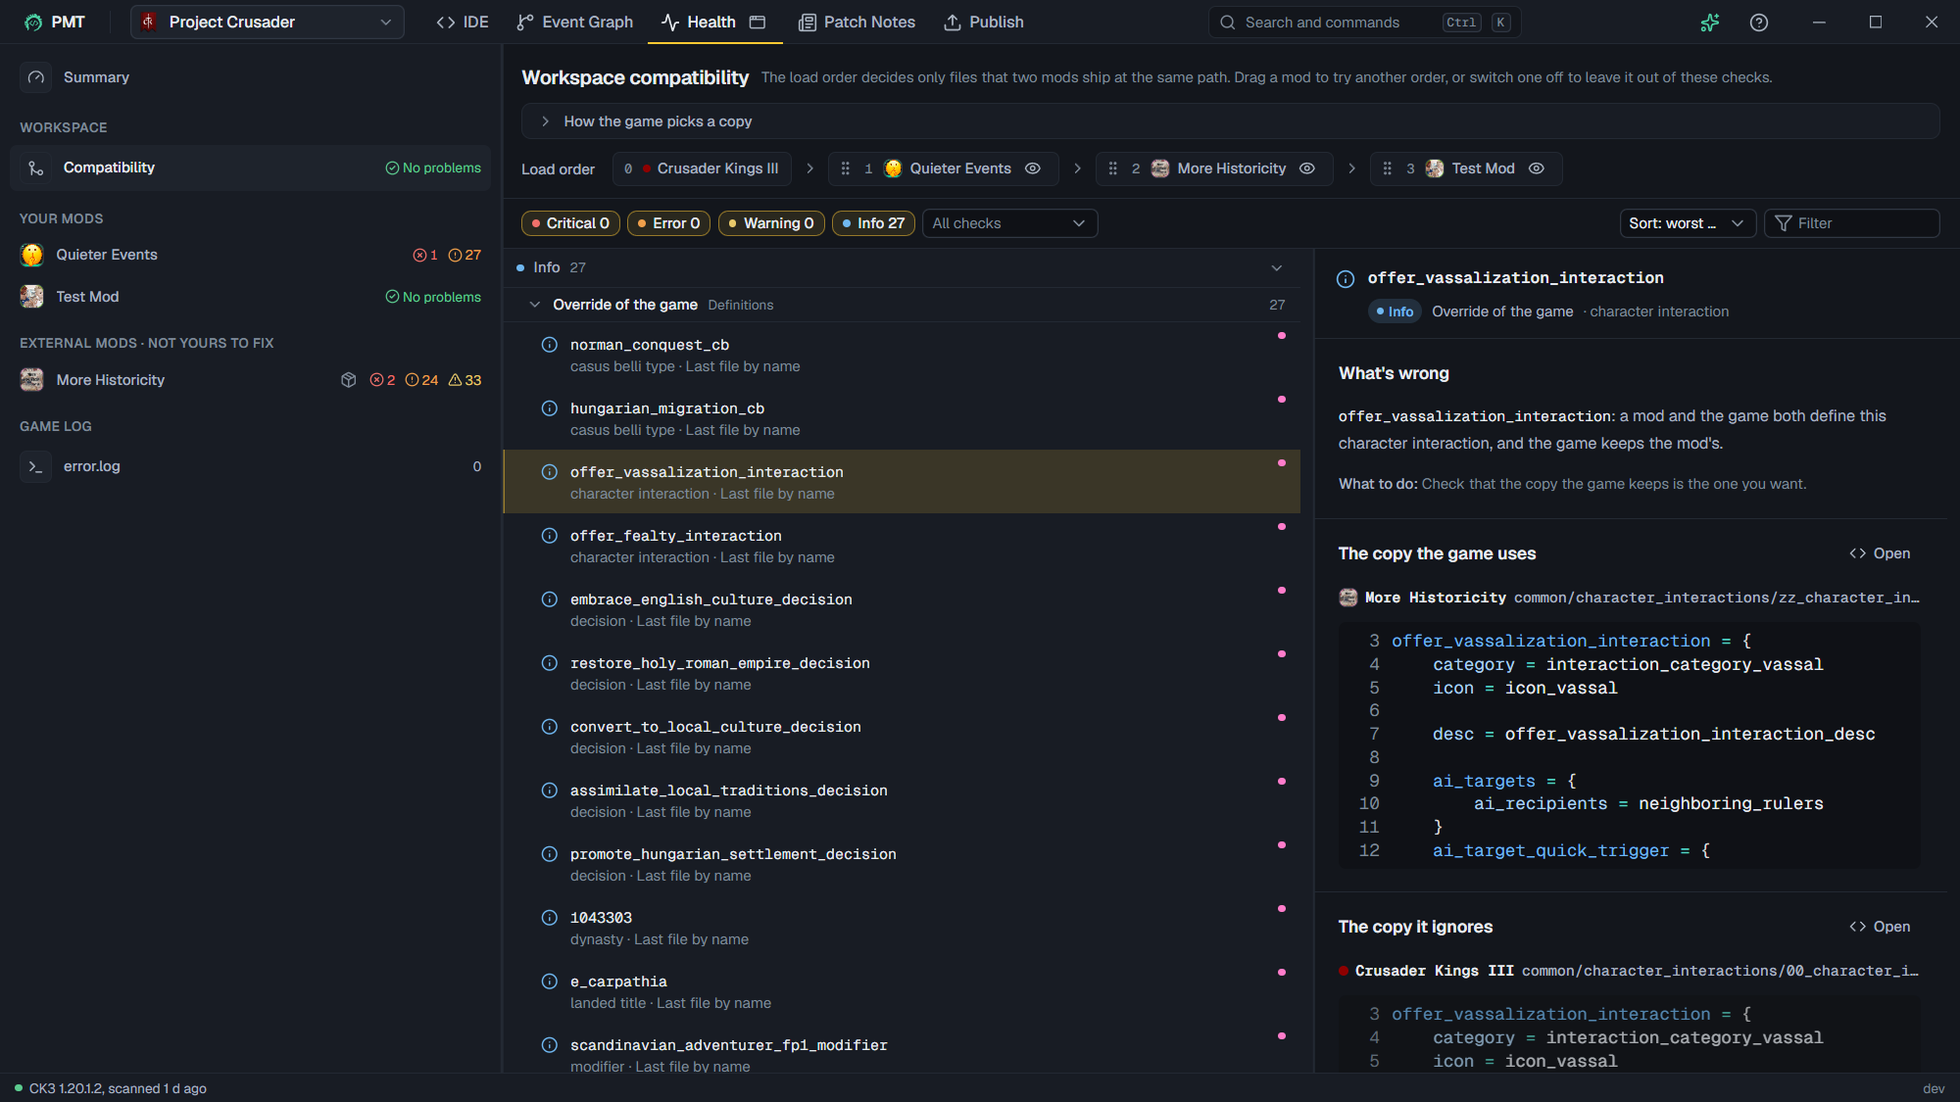
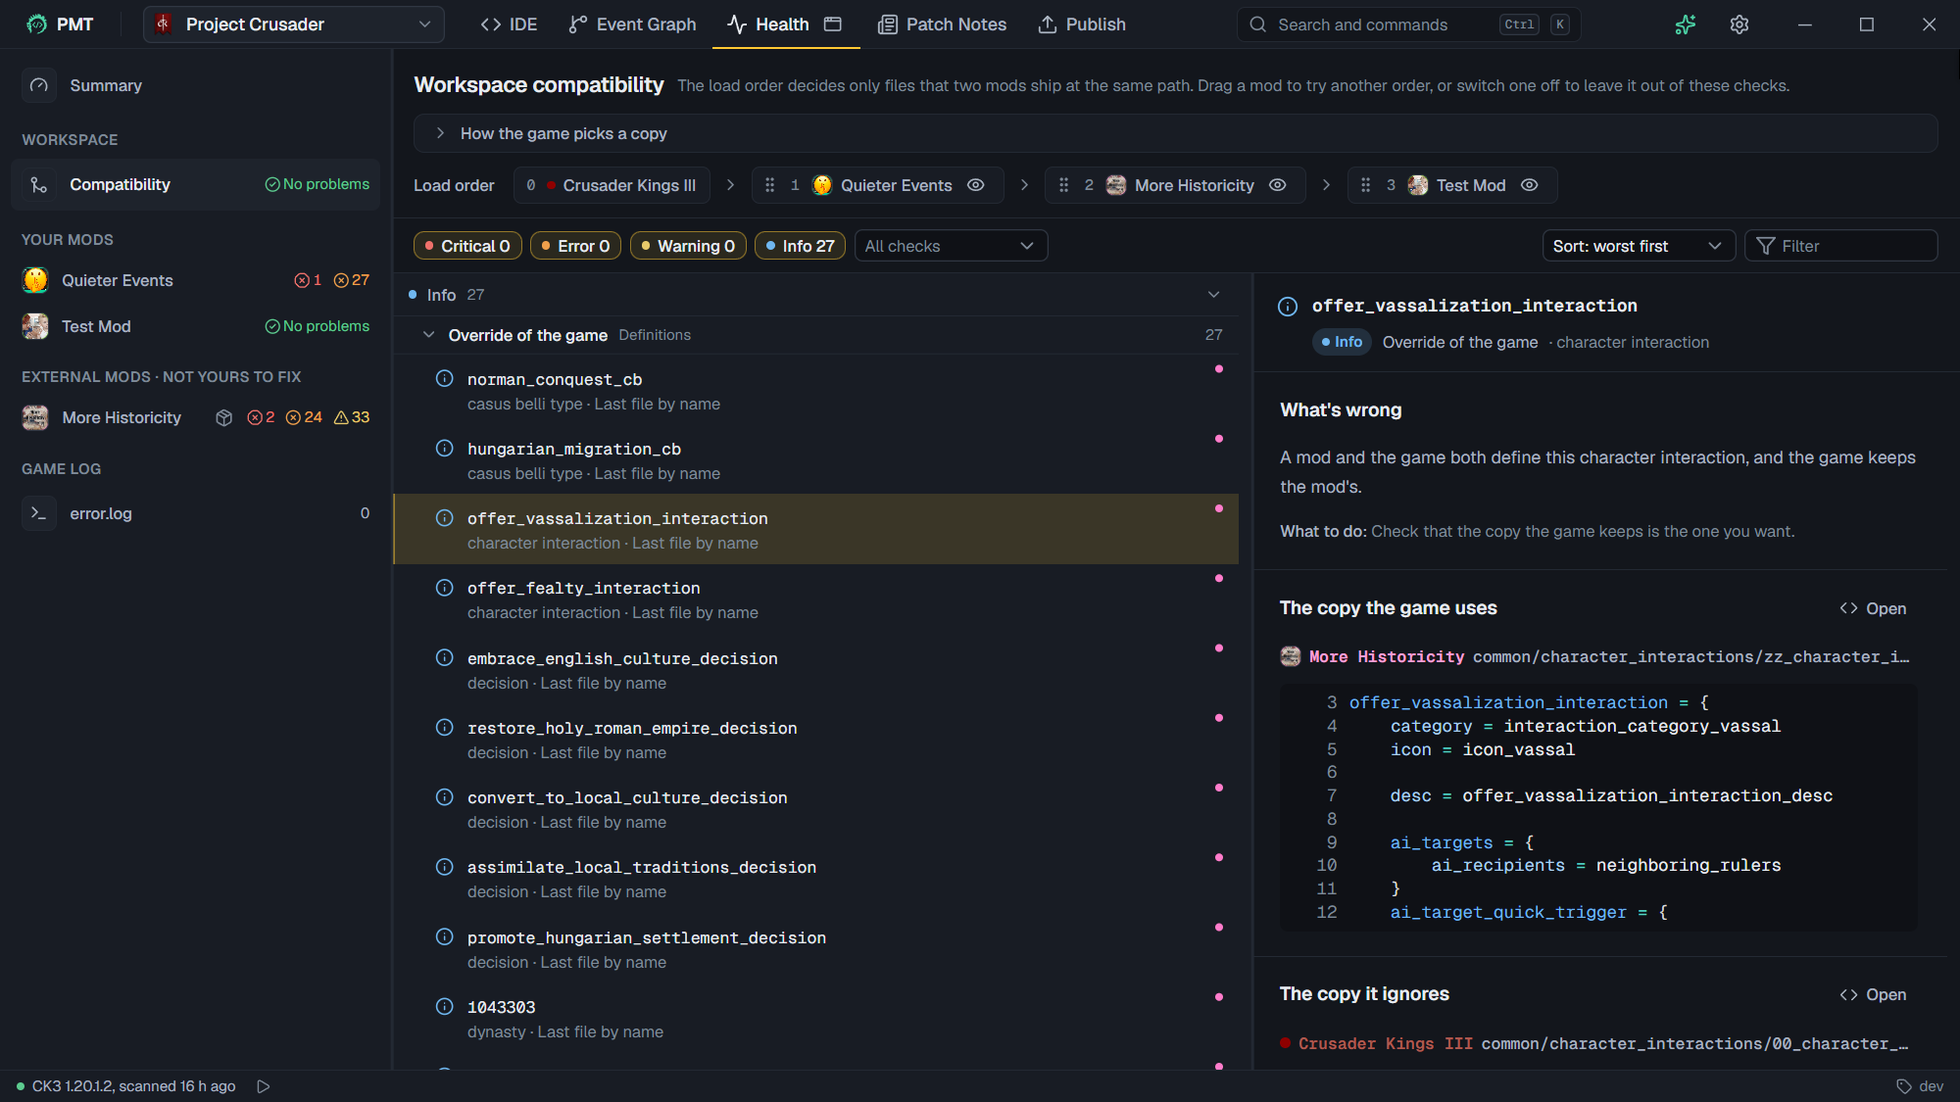
More Health page fixes and update for screenshot

diff --git a/frontend/src/ui/FactText.vue b/frontend/src/ui/FactText.vue
@@ -3,30 +3,63 @@
 import { computed } from "vue";
 
 import type { Part } from "@services/lsp/models";
+import { useWorkspaceStore, VANILLA } from "../stores/workspace";
 
 const { parts = [] } = defineProps<{ parts?: readonly Part[] | null }>();
 
-/** drawn holds each part with its style: plain for a fact shown before, and a path split into folder and file. */
+const workspace = useWorkspaceStore();
+/** The text color of the game's and each mod's name. */
+const modColors = computed(
+  () =>
+    new Map(
+      [VANILLA, ...workspace.listMods().map((mod) => mod.id)].map((origin) => [
+        workspace.originName(origin),
+        workspace.originTextColor(origin),
+      ]),
+    ),
+);
+
+/**
+ * drawn holds each part with its style: plain for a fact shown before, a mod in its color with the 's after it, a path
+ * split into folder and file, and code split after each underscore, where its line may break.
+ */
 const drawn = computed(() => {
   const keys = new Set<string>();
-  return (parts ?? []).map((part) => {
+  const styled = (parts ?? []).map((part) => {
     const key = `${part.style}:${part.text}`;
     const style = keys.has(key) ? "" : part.style;
     keys.add(key);
-    const fileStart = style === "path" ? part.text.lastIndexOf("/") + 1 : 0;
-    return { text: part.text, style, folder: part.text.slice(0, fileStart), file: part.text.slice(fileStart) };
+    return { text: part.text, style };
+  });
+  return styled.map(({ text, style }, index) => {
+    const owns = style === "mod" && !!styled[index + 1]?.text.startsWith("'s");
+    const owned = styled[index - 1]?.style === "mod" && text.startsWith("'s");
+    const fileStart = style === "path" ? text.lastIndexOf("/") + 1 : 0;
+    return {
+      text: (owned ? text.slice(2) : text) + (owns ? "'s" : ""),
+      style,
+      color: style === "mod" ? modColors.value.get(text) : undefined,
+      folder: text.slice(0, fileStart),
+      file: text.slice(fileStart),
+      pieces: text.split(/(?<=_)/),
+    };
   });
 });
 </script>
 
 <template>
   <template v-for="(part, index) in drawn" :key="index">
-    <b v-if="part.style === 'mod' || part.style === 'count'" class="font-semibold text-highlighted tabular-nums">{{
-      part.text
-    }}</b>
-    <code v-else-if="part.style === 'code'" class="font-mono text-[0.92em] wrap-anywhere text-highlighted">{{
-      part.text
-    }}</code>
+    <b
+      v-if="part.style === 'mod' || part.style === 'count'"
+      class="font-semibold text-highlighted tabular-nums"
+      :style="part.color ? { color: part.color } : undefined"
+      >{{ part.text }}</b
+    >
+    <code
+      v-else-if="part.style === 'code'"
+      class="rounded-sm bg-elevated px-1 py-px font-mono text-[0.88em] box-decoration-clone wrap-anywhere text-default"
+      ><template v-for="(piece, at) in part.pieces" :key="at">{{ piece }}<wbr /></template
+    ></code>
     <span v-else-if="part.style === 'path'" class="font-mono text-[0.92em] wrap-anywhere text-dimmed"
       >{{ part.folder }}<span class="font-medium text-highlighted">{{ part.file }}</span></span
     >

diff --git a/frontend/src/pages/health/HealthDetail.vue b/frontend/src/pages/health/HealthDetail.vue
@@ -4,7 +4,7 @@ import { computed, shallowRef } from "vue";
 import { useQuery } from "@pinia/colada";
 import { groupBy, isEqual, maxBy, sumBy } from "es-toolkit";
 import type { Finding } from "@services/health/models";
-import type { Site } from "@services/lsp/models";
+import type { Part, Site } from "@services/lsp/models";
 import { compareWithGame } from "../../app/commands";
 import { describeCount, matchQuery, plural } from "../../lib/format";
 import { codesQuery, comparedQuery, levelsQuery, readersQuery, snippetsQuery } from "../../queries";
@@ -74,6 +74,14 @@ const replacing = computed(() =>
 );
 /** Whether the finding suggests a load order other than the current one. */
 const reorders = computed(() => !!finding.order?.length && !isEqual(order, finding.order));
+/** The sentence that says which mod to move after which, the mods in their colors. */
+const reorderParts = computed((): Part[] => [
+  { text: "Put " },
+  { text: finding.facts?.beaten ?? "", style: "mod" },
+  { text: " after " },
+  { text: finding.facts?.winner ?? "", style: "mod" },
+  { text: "." },
+]);
 
 /** The text an entry still used must match to be listed, and whether the list shows all of them. */
 const usesFilter = shallowRef("");
@@ -127,7 +135,10 @@ function describeSite(site: Site): string {
               >{{ folder }}/<wbr /></template></span
           >{{ file.name }}
         </template>
-        <template v-else>{{ finding.name || finding.label || finding.code }}</template>
+        <template v-else-if="finding.name"
+          ><template v-for="(piece, at) in finding.name.split(/(?<=_)/)" :key="at">{{ piece }}<wbr /></template
+        ></template>
+        <template v-else>{{ finding.label || finding.code }}</template>
       </span>
     </template>
     <template #line>
@@ -173,8 +184,7 @@ function describeSite(site: Site): string {
         <UButton label="Try this order" @click="emit('preview', finding.order ?? [])" />
       </template>
       <p class="max-w-[74ch] text-13 leading-5.5 text-toned">
-        Put <b class="font-semibold text-highlighted">{{ finding.facts?.beaten }}</b> after {{ finding.facts?.winner }}.
-        The preview shows what else would change hands before you keep the order.
+        <FactText :parts="reorderParts" /> The preview shows what else would change hands before you keep the order.
       </p>
     </HealthSection>
     <HealthSection

diff --git a/frontend/src/ui/ScriptSnippet.vue b/frontend/src/ui/ScriptSnippet.vue
@@ -57,8 +57,18 @@ const style = computed(() => {
   const { fontFamily, fontSize, padding } = settings.codeFont();
   return { fontFamily, fontSize: `${fontSize}px`, lineHeight: `${lineHeight.value}px`, paddingTop: `${padding.top}px` };
 });
-// Trailing line breaks are dropped, since Monaco would draw them as an empty line.
-const code = computed(() => text.replace(/[\r\n]+$/, ""));
+// Trailing line breaks are dropped, since Monaco would draw them as an empty line, and so is the indent every line
+// shares, so deeply nested code starts at the left.
+const code = computed(() => {
+  const rows = text.replace(/[\r\n]+$/, "").split(/\r\n|\r|\n/);
+  const indents = rows.filter((row) => row.trim()).map((row) => /^[\t ]*/.exec(row)?.[0] ?? "");
+  const shared = indents.reduce((common, indent) => {
+    let end = 0;
+    while (end < common.length && common[end] === indent[end]) end++;
+    return common.slice(0, end);
+  }, indents[0] ?? "");
+  return rows.map((row) => row.slice(shared.length)).join("\n");
+});
 const lineNumbers = computed(() => (line ? code.value.split(/\r\n|\r|\n/).map((_text, index) => line + index) : []));
 const gutter = computed(() => ({
   width: `${Math.max(settings.codeFont().lineNumbersMinChars, String(lineNumbers.value.at(-1)).length)}ch`,
@@ -106,7 +116,7 @@ watch(
     />
     <div
       v-if="lineNumbers.length"
-      class="relative shrink-0 text-right text-(--fg-3) tabular-nums select-none"
+      class="relative box-content shrink-0 ps-3 text-right text-(--fg-3) tabular-nums select-none"
       :style="gutter"
     >
       <div v-for="number in lineNumbers" :key="number">{{ number }}</div>

diff --git a/frontend/src/pages/health/HealthSummary.vue b/frontend/src/pages/health/HealthSummary.vue
@@ -303,16 +303,16 @@ function describeLogPlace(finding: Finding): Part[] {
                 :key="position"
                 :level="lead.level"
                 :message="joinParts(lead.message)"
-                class="ps-12"
+                class="ps-4.75"
                 @open="emit('open', 'mod', modRow.mod.id, lead)"
               >
                 <template v-if="lead.name" #message>
-                  <span class="font-mono text-12"><FactText :parts="splitSubject(lead)" /></span>
+                  <span class="block truncate font-mono text-12" :title="lead.name"
+                    ><FactText :parts="splitSubject(lead)"
+                  /></span>
                 </template>
-                <template v-if="lead.name || lead.brief?.length" #detail>
-                  <span class="min-w-0 truncate text-11 text-dimmed">
-                    <FactText :parts="lead.name ? lead.message : lead.brief" />
-                  </span>
+                <template v-if="lead.brief?.length" #detail>
+                  <span class="min-w-0 truncate text-11 text-dimmed"><FactText :parts="lead.brief" /></span>
                 </template>
                 <template v-if="logged" #trailing>
                   <UBadge label="in the log" color="neutral" variant="subtle" size="sm" class="shrink-0" />

diff --git a/frontend/src/stores/workspace.ts b/frontend/src/stores/workspace.ts
@@ -78,6 +78,9 @@ export const useWorkspaceStore = defineStore("workspace", () => {
     return SLOTS.includes(color) ? `var(--${color})` : color;
   };
 
+  /** originTextColor returns an origin's color for its name in text, lifted toward the text so a dark one reads. */
+  const originTextColor = (origin: string): string => `color-mix(in oklab, ${originColor(origin)} 70%, var(--fg-1))`;
+
   /** isLeftOut reports whether the active workspace leaves a mod out of its compatibility checks. */
   const isLeftOut = (modId: string): boolean => !!findMod(modId)?.leftOut;
 
@@ -155,6 +158,7 @@ export const useWorkspaceStore = defineStore("workspace", () => {
     originName,
     describeFolder,
     originColor,
+    originTextColor,
     isLeftOut,
     isExternal,
     isCustom,

diff --git a/frontend/src/ui/ModTitle.vue b/frontend/src/ui/ModTitle.vue
@@ -15,6 +15,8 @@ const mod = computed(() => workspace.listMods().find((row) => row.id === origin)
   <span class="inline-flex min-w-0 items-center gap-1.5 font-semibold text-highlighted">
     <ModAvatar v-if="mod" :mod="mod" size="3xs" />
     <span v-else class="size-2 shrink-0 rounded-full" :style="{ background: workspace.originColor(origin) }" />
-    <span class="truncate">{{ workspace.originName(origin) }}</span>
+    <span class="truncate" :style="{ color: workspace.originTextColor(origin) }">{{
+      workspace.originName(origin)
+    }}</span>
   </span>
 </template>

diff --git a/services/lsp/diagnostics.go b/services/lsp/diagnostics.go
@@ -197,11 +197,11 @@ var Codes = []Code{
 	{ID: "unmounted-folder", Question: QuestionHealth, Level: LevelWarning, Topic: "definitions", HealthOnly: true,
 		Label:       "Folder the game never reads",
 		Description: "Files in a folder the game never reads.",
-		Message: "{name} is outside the in_game, main_menu and loading_screen folders, " +
+		Message: "This folder is outside the in_game, main_menu and loading_screen folders, " +
 			"so the game never reads the files in it: {count}.",
 		Advice: "Move the files into one of those folders."},
 	{ID: "supported-version", Question: QuestionHealth, Level: LevelWarning, Topic: "descriptor",
-		Label: "Made for another game version", Description: "A mod made for another game version than the installed one.", Message: "{name} is made for game {supported}; the game is {version}.",
+		Label: "Made for another game version", Description: "A mod made for another game version than the installed one.", Message: "{mod} is made for game {supported}; the game is {version}.",
 		Advice: "Test the mod in this version, then set the version it supports to match."},
 	{ID: "contest", Question: QuestionCompatibility, Level: LevelCritical, Topic: "definitions", HealthOnly: true,
 		Label:       "Contested definition",
@@ -212,19 +212,19 @@ var Codes = []Code{
 	{ID: "file-contest", Question: QuestionCompatibility, Level: LevelCritical, Topic: "definitions", HealthOnly: true,
 		Label:       "Contested file",
 		Description: "A file that two or more mods both ship.",
-		Message: "{winner} and {beaten} both ship {name}. The game reads {winner}'s, which is lower in the load order, " +
+		Message: "{winner} and {beaten} both ship this file. The game reads {winner}'s, which is lower in the load order, " +
 			"so {beaten}'s is never used.",
 		Advice: "Rename your file, or delete the copy you do not want."},
 	{ID: "undecided-contest", Question: QuestionCompatibility, Level: LevelWarning, Topic: "definitions", HealthOnly: true,
 		Label:       "Copy the game may not keep",
 		Description: "A name written by several mods where no source says which copy the game keeps.",
-		Message:     "{mods} each write {name}. Which copy the game uses, or whether they combine, is not documented: {why}.",
+		Message:     "{mods} each write this {database}. Which copy the game uses, or whether they combine, is not documented: {why}.",
 		Advice: "PMT can't tell which copy the game keeps here: no source says how this folder combines copies. " +
 			"Check it in the game."},
 	{ID: "shared-message", Question: QuestionCompatibility, Level: LevelWarning, Topic: "localization", HealthOnly: true,
 		Label:       "Localization key in several mods",
 		Description: "A localization key that two or more mods define in one language.",
-		Message: "{mods} define the localization key {name} in {language}. The game shows one copy's text, " +
+		Message: "{mods} define this localization key in {language}. The game shows one copy's text, " +
 			"and a copy in a replace folder wins.",
 		Advice: "Give each mod its own key."},
 	{ID: "missing-dependency", Question: QuestionCompatibility, Level: LevelCritical, Topic: "descriptor", HealthOnly: true,
@@ -235,7 +235,7 @@ var Codes = []Code{
 	{ID: "override", Question: QuestionCompatibility, Level: LevelInfo, Topic: "definitions", HealthOnly: true,
 		Label:       "Override of the game",
 		Description: "A name or file that a mod writes and the game also has.",
-		Message:     "{name}: a mod and the game both define this {database}, and {kept}.",
+		Message:     "A mod and the game both define this {database}, and {kept}.",
 		Advice:      "Check that the copy the game keeps is the one you want."},
 	{ID: "removed-names", Question: QuestionHealth, Level: LevelCritical, Topic: "definitions", HealthOnly: true,
 		Label:       "Replaced file leaves out entries in use",
@@ -247,7 +247,7 @@ var Codes = []Code{
 	{ID: "unused-copy", Question: QuestionHealth, Level: LevelCritical, Topic: "definitions", HealthOnly: true,
 		Label:       "Copy never used",
 		Description: "A mod's copy of a name that the game never uses, because it keeps its own.",
-		Message:     "{beaten}'s copy of {name} is never used: the game keeps its own.",
+		Message:     "{beaten}'s copy is never used: the game keeps its own.",
 		Advice:      "Delete the copy, or rename it if it should be a new entry."},
 	{ID: "ignored-pair", Question: QuestionCompatibility, Level: LevelInfo, Topic: "definitions", HealthOnly: true,
 		Label:       "Ignored conflicts",
@@ -551,7 +551,7 @@ func (visitor *diagnoseVisitor) diagnoseDescriptor(tree *jomini.Tree) []Diagnost
 		}
 	}
 	facts := DescribeReference(schema.Reference{Name: cmp.Or(descriptor.Name, "This mod")})
-	facts["supported"], facts["version"] = descriptor.SupportedVersion, version
+	facts["mod"], facts["supported"], facts["version"] = facts["name"], descriptor.SupportedVersion, version
 	return []Diagnostic{makeDiagnostic(tree, span, "supported-version", facts)}
 }
 
@@ -626,7 +626,7 @@ func (visitor *diagnoseVisitor) diagnoseMissing(tree *jomini.Tree, references []
 		databases := lo.Uniq(lo.Map(alternatives, func(other schema.Reference, _ int) string {
 			return game.DescribeDefinition(other.Database, false)
 		}))
-		facts := map[string]string{"name": reference.Name, "database": strings.Join(databases, " or ")}
+		facts := map[string]string{"name": reference.Name, "database": JoinList(databases, "or")}
 		if code == "loc-markup" {
 			facts["why"] = "no file declares the " + facts["database"] + " " + reference.Name
 		}
@@ -657,6 +657,15 @@ func classifyMissing(alternatives []schema.Reference) string {
 		return codes[0]
 	}
 	return unresolvedCode
+}
+
+// JoinList returns the given texts joined as in a sentence, the last two by the given conjunction: "A", "A and B"
+// or "A, B and C". It returns "" for none.
+func JoinList(texts []string, conjunction string) string {
+	if len(texts) < 2 {
+		return strings.Join(texts, "")
+	}
+	return strings.Join(texts[:len(texts)-1], ", ") + " " + conjunction + " " + texts[len(texts)-1]
 }
 
 // canJudge reports whether a reference can be judged dangling. A saved name, such as a scope or a variable, never is.
@@ -818,7 +827,7 @@ func (visitor *diagnoseVisitor) diagnoseFollows(tree *jomini.Tree, statement int
 		return
 	}
 	facts := DescribeReference(schema.Reference{Name: tree.Unquoted(current.Key)})
-	facts["follows"] = strings.Join(keyword.Follows, " or ")
+	facts["follows"] = JoinList(keyword.Follows, "or")
 	visitor.diagnostics = append(visitor.diagnostics, makeDiagnostic(tree, current.Key, "else-without-if", facts))
 }
 

diff --git a/services/mcp/checks.go b/services/mcp/checks.go
@@ -18,7 +18,6 @@ import (
 	"paradox-modding-tools/internal/loc"
 	"paradox-modding-tools/services/draw"
 	"paradox-modding-tools/services/graph"
-	"paradox-modding-tools/services/health"
 	"paradox-modding-tools/services/lsp"
 	"paradox-modding-tools/services/wiki"
 	"paradox-modding-tools/services/workspace"
@@ -77,9 +76,9 @@ func (mcp *Service) checkPage(page string, query map[string]string) error {
 		case !ok && len(keys) == 0:
 			errs = append(errs, fmt.Errorf("%s takes no query", page))
 		case !ok:
-			errs = append(errs, fmt.Errorf("%s takes no %q in its query; it takes %s", page, key, health.JoinList(keys, "or")))
+			errs = append(errs, fmt.Errorf("%s takes no %q in its query; it takes %s", page, key, lsp.JoinList(keys, "or")))
 		case len(row.Values) > 0 && !slices.Contains(row.Values, value):
-			errs = append(errs, fmt.Errorf("%s's %s is %s, not %q", page, key, health.JoinList(row.Values, "or"), value))
+			errs = append(errs, fmt.Errorf("%s's %s is %s, not %q", page, key, lsp.JoinList(row.Values, "or"), value))
 		case row.Check != nil:
 			errs = append(errs, row.Check(mcp, value))
 		}
@@ -227,7 +226,7 @@ func (mcp *Service) checkDrawable(place workspace.Place, drawable string, picks 
 			continue
 		}
 		words := lo.Map(group.Options, func(option string, _ int) string { return describeOption(group, option) })
-		errs = append(errs, fmt.Errorf("%s's group %q takes %s, not %q", window.Name, id, health.JoinList(words, "or"), picks[id]))
+		errs = append(errs, fmt.Errorf("%s's group %q takes %s, not %q", window.Name, id, lsp.JoinList(words, "or"), picks[id]))
 	}
 	return errors.Join(errs...)
 }

diff --git a/services/health/contests.go b/services/health/contests.go
@@ -241,7 +241,7 @@ func splitWhy(finding Finding) []lsp.Part {
 			!site.Kept && site.Place.Origin != game.OriginVanilla
 	})
 	facts := maps.Clone(finding.Facts)
-	facts["folder"], facts["file"], facts["beatenFile"] = folder+"/", winner.Place.Name, JoinList(beaten, "and")
+	facts["folder"], facts["file"], facts["beatenFile"] = folder+"/", winner.Place.Name, lsp.JoinList(beaten, "and")
 	return lsp.SplitMessage(index.Reasons[winner.Reason].Why, facts)
 }
 
@@ -280,16 +280,7 @@ func listBeaten(finding Finding) []string {
 
 // describeMods returns the titles of mods joined as in a sentence, such as "A, B and C". It returns "" for none.
 func describeMods(ws *workspace.Session, modIDs []string) string {
-	return JoinList(lo.Map(modIDs, func(id string, _ int) string { return ws.DescribeMod(id) }), "and")
-}
-
-// JoinList returns the given texts joined as in a sentence, the last two by the given conjunction: "A", "A and B"
-// or "A, B and C". It returns "" for none.
-func JoinList(texts []string, conjunction string) string {
-	if len(texts) < 2 {
-		return strings.Join(texts, "")
-	}
-	return strings.Join(texts[:len(texts)-1], ", ") + " " + conjunction + " " + texts[len(texts)-1]
+	return lsp.JoinList(lo.Map(modIDs, func(id string, _ int) string { return ws.DescribeMod(id) }), "and")
 }
 
 // resolveOrder gives a critical contest that the load order decides the order that fixes it: the beaten mod moved just

diff --git a/services/mcp/tools.go b/services/mcp/tools.go
@@ -347,7 +347,7 @@ func (mcp *Service) describePages() string {
 	pages := lo.PartitionBy(queryKeys, func(row queryKey) string { return row.Page })
 	for _, rows := range pages {
 		keys := lo.Map(rows, func(row queryKey, _ int) string {
-			values := lo.Ternary(len(row.Values) > 0, health.JoinList(row.Values, "or")+": ", "")
+			values := lo.Ternary(len(row.Values) > 0, lsp.JoinList(row.Values, "or")+": ", "")
 			return fmt.Sprintf("%s (%s%s)", row.Key, values, row.Help)
 		})
 		fmt.Fprintf(&guide, "\n- %s: %s.", rows[0].Page, strings.Join(keys, "; "))
@@ -427,7 +427,7 @@ func (mcp *Service) buildReport(filter findingFilter) (health.Report, error) {
 	}
 	levels := lo.Map(lsp.Levels, func(level lsp.Level, _ int) string { return level.ID })
 	if filter.Level != "" && !slices.Contains(levels, filter.Level) {
-		errs = append(errs, fmt.Errorf("a finding's level is %s, not %q", health.JoinList(levels, "or"), filter.Level))
+		errs = append(errs, fmt.Errorf("a finding's level is %s, not %q", lsp.JoinList(levels, "or"), filter.Level))
 	}
 	if err := errors.Join(errs...); err != nil {
 		return health.Report{}, err
